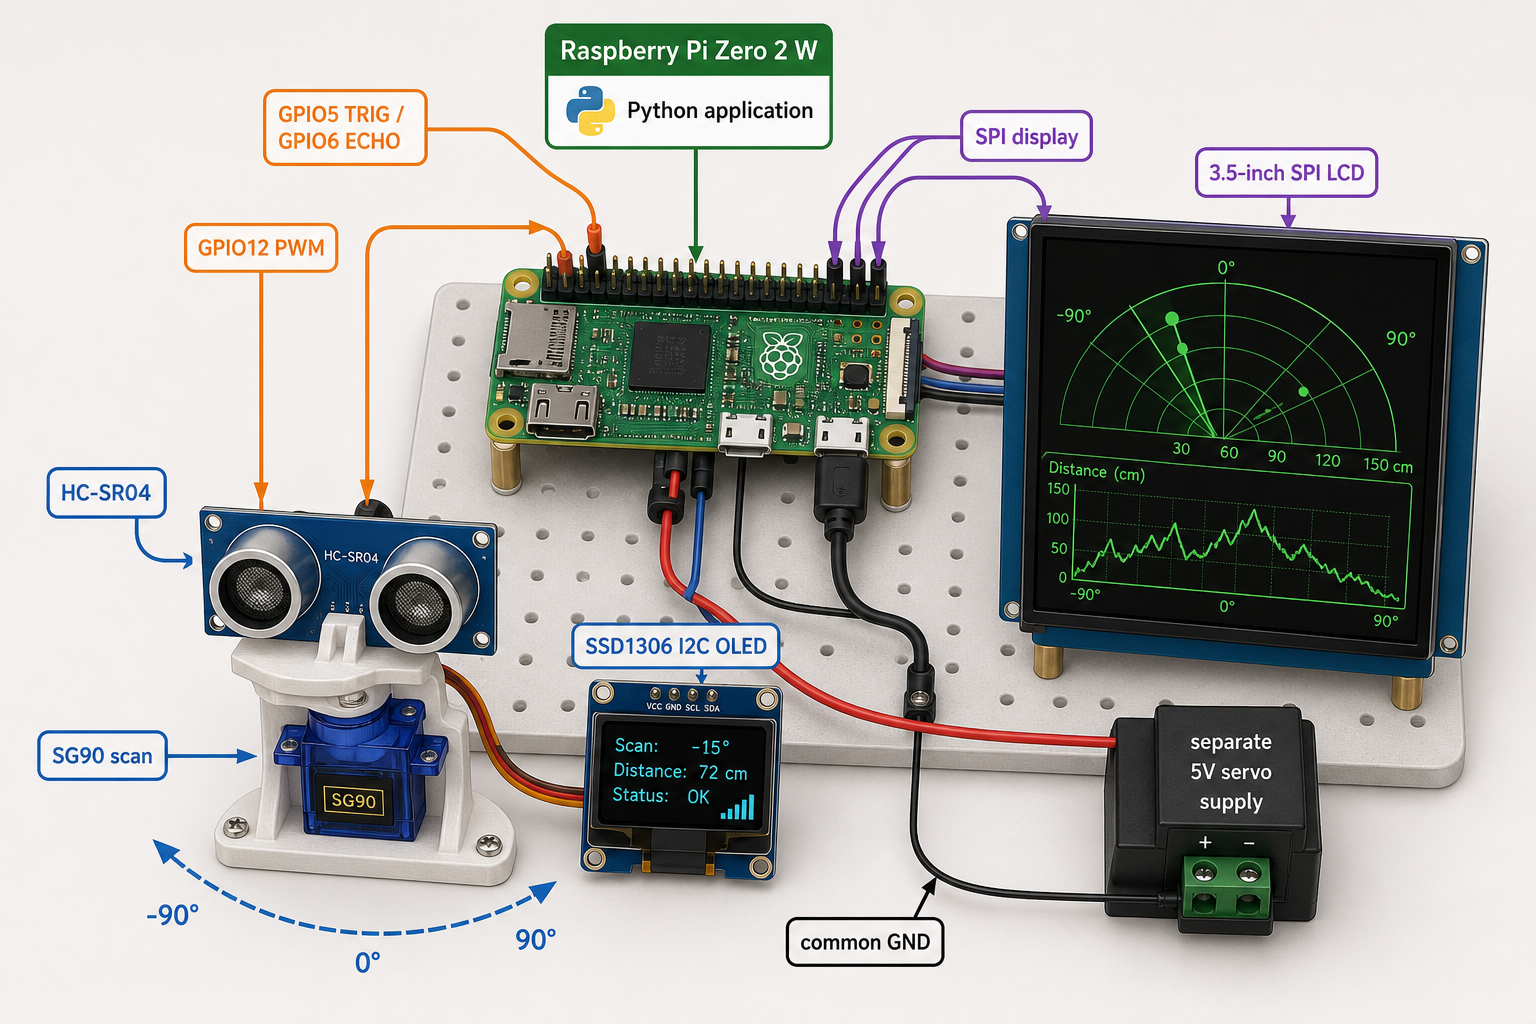
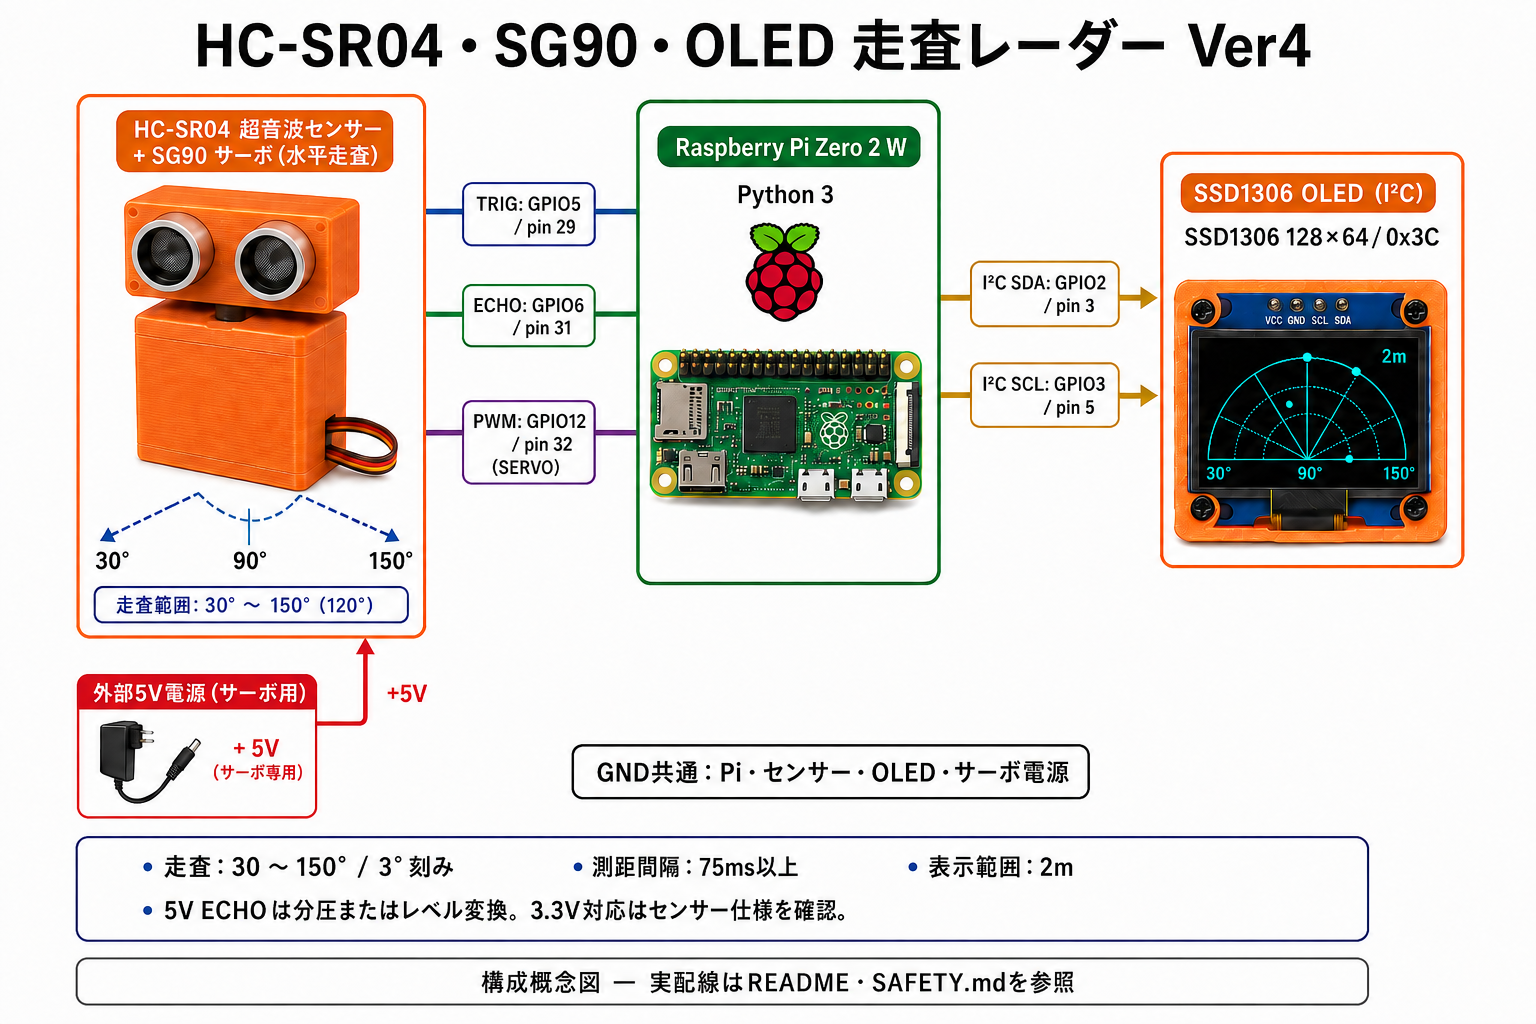
README.mdの内容を更新し、プロジェクトの概要、主な仕様、実機の構成を明確にしました。また、デモ動画のリンクを修正しました。画像ファイルも更新しました。

diff --git a/README.md b/README.md
@@ -1,8 +1,25 @@
 # Raspberry Pi Zero 2 W HC-SR04 OLED Radar
 
-Raspberry Pi Zero 2 W、HC-SR04系超音波距離センサー、SG90サーボ、SSD1306 OLEDを使った走査レーダーです。完成版のVer4は実機で動作確認済みです。
+Raspberry Pi Zero 2 Wで超音波距離センサーを左右に走査し、周囲の距離を小型OLEDへレーダー風に表示する電子工作プロジェクトです。HC-SR04系センサー、SG90サーボ、SSD1306 OLEDを組み合わせたVer4は、実機で動作確認済みです。
 
-![完成した走査レーダー](assets/04_HC-SR04_SG90_OLED_レーダーV4_全体動作確認.jpg)
+![Ver4の構成概念図：Pi Zero 2 W、HC-SR04、SG90、I²C OLEDの接続と走査仕様](assets/02_HC-SR04_SG90_OLED_完成構成図.png)
+
+SG90がセンサーを30〜150度の範囲で動かし、Piが角度ごとの距離を測定してOLEDへ描画します。上図は構成概念図です。組み立て時は[GPIO割り当て](#gpio割り当て)と[安全上の注意](SAFETY.md)を確認してください。
+
+[部品表](BOM.md) · [セットアップ手順](docs/setup.md) · [完成版ソース](src/hc_sr04_radar_test_v4.py) · [デモ動画](#デモ動画)
+
+## 主な仕様
+
+| 項目 | 内容 |
+|---|---|
+| 制御 | Raspberry Pi Zero 2 W / Python 3 |
+| 測距・走査 | HC-SR04系超音波センサー / SG90サーボ |
+| 走査角度・刻み | 30〜150度 / 3度 |
+| 測距間隔 | 75ms以上 |
+| 表示 | SSD1306 I²C OLED、128×64、アドレス0x3C |
+| 表示範囲 | 2m |
+| 走査時間 | 片道約3秒（本機での実測） |
+| 終了時 | サーボを90度へ戻してPWMを解除 |
 
 ## デモ動画
 
@@ -14,17 +31,11 @@ Raspberry Pi Zero 2 W、HC-SR04系超音波距離センサー、SG90サーボ、
 
 [![OLED表示のクローズアップをYouTubeで再生](https://img.youtube.com/vi/qSEfqi-cBqI/hqdefault.jpg)](https://www.youtube.com/shorts/qSEfqi-cBqI)
 
-サムネイルをクリックするとYouTubeで再生します。動画はGit履歴へ含めず、原動画は[Release v1.0.0-radar-demo](https://github.com/zorosdrone/pi-zero-hcsr04-oled-radar/releases/tag/v1.0.0-radar-demo)の添付ファイルとしても配布します。
+サムネイルをクリックするとYouTubeで再生します。原動画は[Release v1.0.0-radar-demo](https://github.com/zorosdrone/pi-zero-hcsr04-oled-radar/releases/tag/v1.0.0-radar-demo)からダウンロードできます。
 
-## 主な仕様
+## 実機の構成
 
-- 走査角度: 30〜150度
-- 走査刻み: 3度
-- 測距間隔: 75ms以上
-- 表示範囲: 2m
-- 表示: SSD1306 I²C OLED
-- 実測: 片道約3秒
-- 終了時: サーボを90度へ戻してPWMを解除
+![オレンジ色のケースに収めたセンサーとサーボ、Pi Zero 2 W、小型OLEDの実機写真](assets/04_HC-SR04_SG90_OLED_レーダーV4_全体動作確認.jpg)
 
 ## 確認状態
 
@@ -41,7 +52,7 @@ Raspberry Pi Zero 2 W、HC-SR04系超音波距離センサー、SG90サーボ、
 
 配線前に[安全上の注意](SAFETY.md)を読み、[部品表](BOM.md)と[セットアップ手順](docs/setup.md)を確認してください。
 
-完成版はRaspberry Pi上で次のように実行します。
+セットアップと単体動作確認を済ませたら、Raspberry Pi上のプロジェクトのルートディレクトリで実行します。
 
 ```bash
 python3 src/hc_sr04_radar_test_v4.py
@@ -54,7 +65,7 @@ python3 src/hc_sr04_radar_test_v4.py
 - `src/`: 完成版Ver4、距離測定、サーボ校正、固定OLED表示の確認用スクリプト
 - `examples/oled/`: OLED単体確認
 - `assets/`: 配線図、構成図、実機写真
-- `media/`: Release添付用のデモ動画とリリースノート
+- `media/`: デモ動画の案内とリリースノート
 - `docs/`: セットアップと再現手順
 
 ## GPIO割り当て
